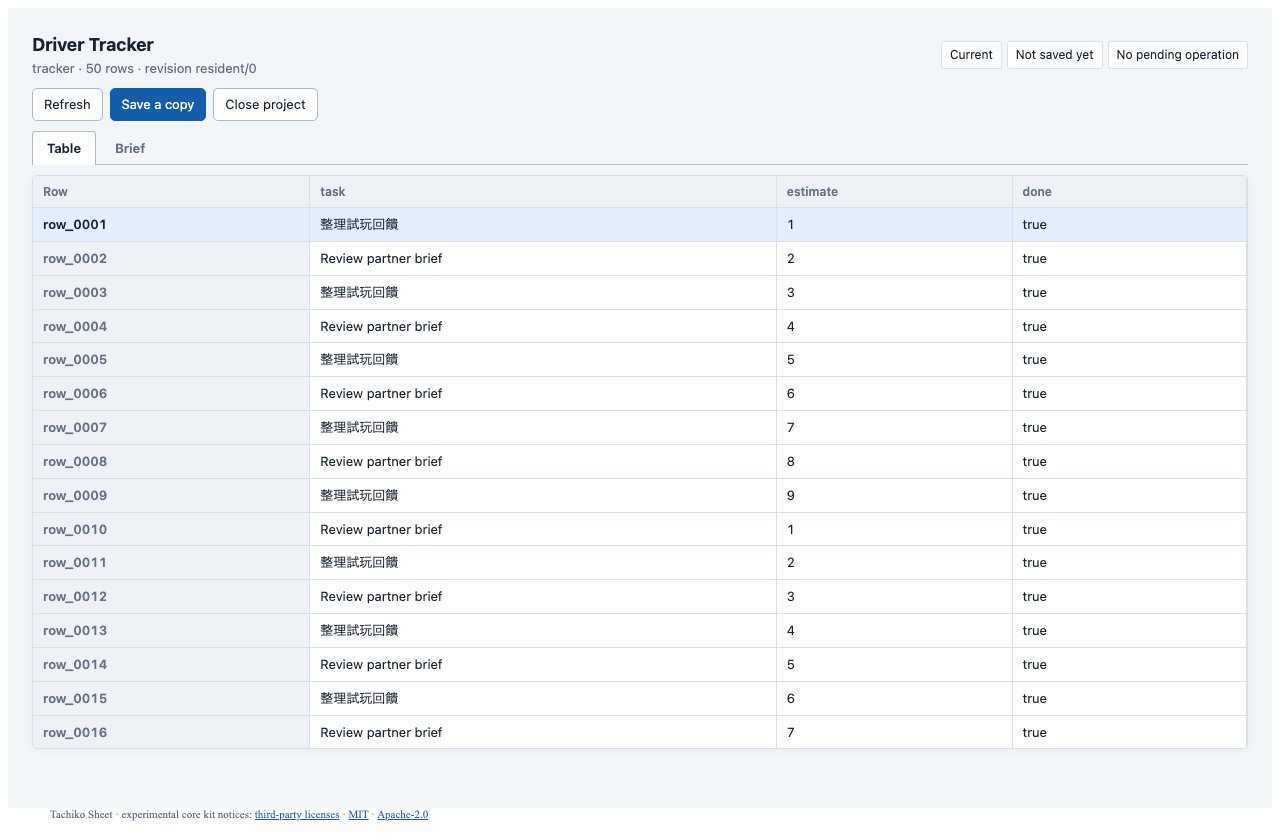
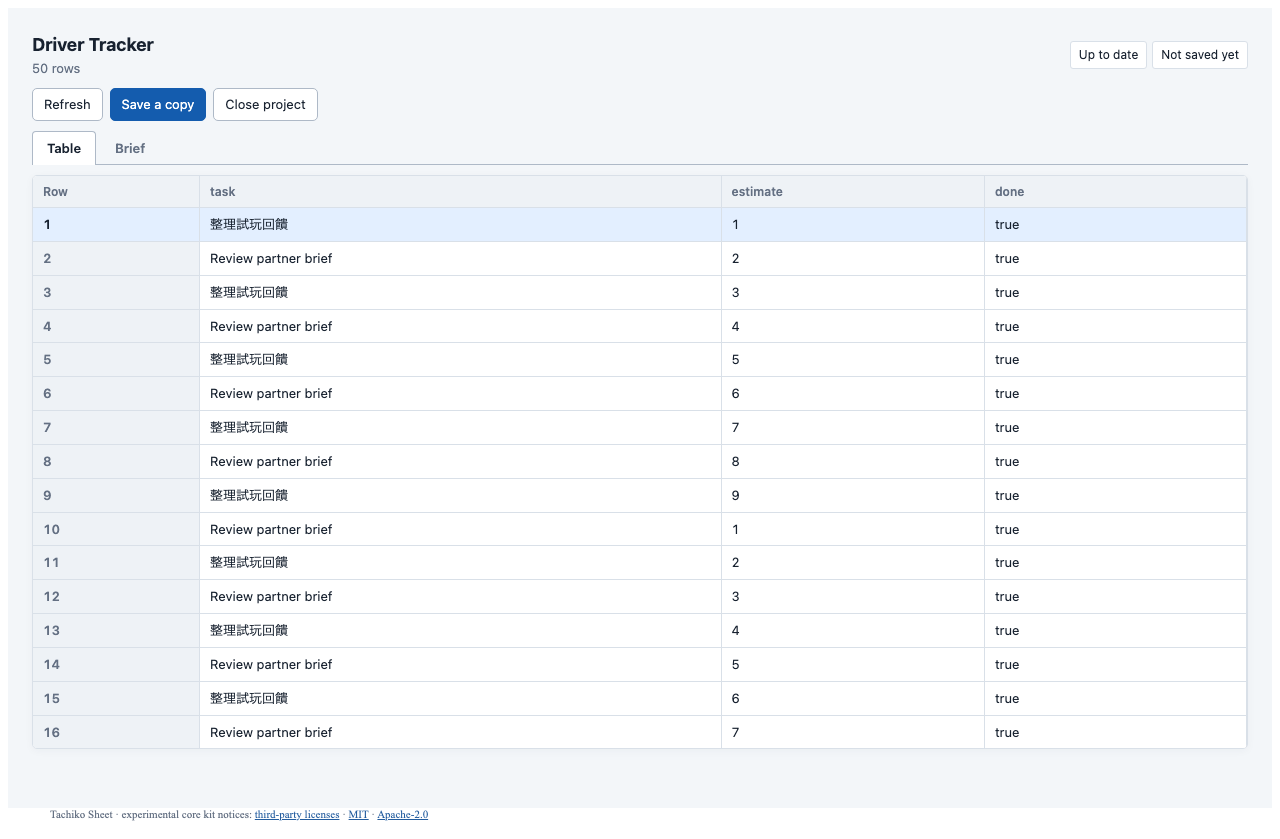
fix: keep runtime identifiers out of sheet presentation

diff --git a/src/ui/SheetShell.tsx b/src/ui/SheetShell.tsx
@@ -472,8 +472,8 @@ export function SheetShell(props: SheetShellProps) {
       <main className="ts-home">
         {currentness === "unknown" ? (
           <section className="ts-card" aria-label="Recovery">
-            <h2 className="ts-h2">Recovery required; freshness unconfirmed</h2>
-            <p className="ts-subtle">Resident work is not confirmed. Refresh to re-read it.</p>
+            <h2 className="ts-h2">Refresh required</h2>
+            <p className="ts-subtle">The open work could not be confirmed. Refresh to read it again.</p>
             <div className="ts-status-strip" aria-label="Recovery status">
               <span className="ts-chip" data-testid="currentness" data-currentness={currentness}>
                 {currentnessLabel(currentness)}
@@ -568,10 +568,7 @@ export function SheetShell(props: SheetShellProps) {
       <header className="ts-workbook-head">
         <div className="ts-title-block">
           <h1 className="ts-title">{view ? view.title : ""}</h1>
-          <p className="ts-subtle">
-            {table ? `${table.collection.key} · ${table.rows.length} rows` : ""}
-            {view ? ` · revision ${view.revision}` : ""}
-          </p>
+          <p className="ts-subtle">{table ? `${table.rows.length} rows` : ""}</p>
         </div>
         <div className="ts-status-strip">
           <span className="ts-chip" data-testid="currentness" data-currentness={currentness}>
@@ -580,9 +577,11 @@ export function SheetShell(props: SheetShellProps) {
           <span className={`ts-chip ts-chip--${saveStatus}`} data-testid="save-status">
             {saveLabel(saveStatus)}
           </span>
-          <span className={`ts-chip ts-chip--${outcome}`} data-testid="operation-outcome">
-            {outcomeLabel(outcome)}
-          </span>
+          {outcome !== "idle" ? (
+            <span className={`ts-chip ts-chip--${outcome}`} data-testid="operation-outcome">
+              {outcomeLabel(outcome)}
+            </span>
+          ) : null}
         </div>
       </header>
     );
@@ -614,7 +613,7 @@ export function SheetShell(props: SheetShellProps) {
                 return (
                   <tr key={row.id || entity} className={isSelectedRow ? "ts-row ts-row--selected" : "ts-row"}>
                     <th scope="row" className="ts-row-head">
-                      {row.key}
+                      {table.rows.indexOf(row) + 1}
                     </th>
                     {columns.map((column) => renderCell(row, entity, column))}
                   </tr>
@@ -1010,15 +1009,15 @@ function isComposingEvent(event: ReactKeyboardEvent<HTMLElement>): boolean {
 }
 
 function currentnessLabel(currentness: SheetShellProps["currentness"]): string {
-  if (currentness === "current") return "Current";
+  if (currentness === "current") return "Up to date";
   if (currentness === "pending") return "Updating…";
-  return "Freshness unknown";
+  return "Needs refresh";
 }
 
 function freshnessNotice(currentness: SheetShellProps["currentness"]): string {
   return currentness === "pending"
-    ? "These values are not confirmed current: a change is still being applied."
-    : "These values are not confirmed current, and shown results may be out of date.";
+    ? "These values are being updated; wait for confirmation before editing."
+    : "These values could not be confirmed. Refresh before editing.";
 }
 
 function saveLabel(saveStatus: SheetShellProps["saveStatus"]): string {
@@ -1036,8 +1035,8 @@ function saveLabel(saveStatus: SheetShellProps["saveStatus"]): string {
 
 function outcomeLabel(outcome: SheetShellProps["outcome"]): string {
   if (outcome === "pending") return "Applying changes…";
-  if (outcome === "unknown") return "Outcome unknown";
-  return "No pending operation";
+  if (outcome === "unknown") return "Outcome needs review";
+  return "";
 }
 
 function explain(error: unknown, fallback: string): string {

diff --git a/src/ui/SheetShell.test.ts b/src/ui/SheetShell.test.ts
@@ -202,9 +202,9 @@ describe("recovery presentation", () => {
   it("keeps Refresh available when a replacement opened without a confirmed projection", () => {
     const markup = render({ currentness: "unknown", outcome: "unknown" });
     expect(markup).toContain('aria-label="Recovery"');
-    expect(markup).toContain("Recovery required; freshness unconfirmed");
-    expect(chipText(markup, "currentness")).toBe("Freshness unknown");
-    expect(chipText(markup, "operation-outcome")).toBe("Outcome unknown");
+    expect(markup).toContain("Refresh required");
+    expect(chipText(markup, "currentness")).toBe("Needs refresh");
+    expect(chipText(markup, "operation-outcome")).toBe("Outcome needs review");
     expect(markup).toMatch(/<button[^>]*class="ts-button"[^>]*>Refresh<\/button>/);
     expect(markup).not.toMatch(/<button[^>]*disabled=""[^>]*>Refresh<\/button>/);
     expect(markup).not.toContain("could not be opened");
@@ -323,13 +323,24 @@ describe("SheetShell static rendering", () => {
   });
 
   it("marks unknown outcomes and freshness instead of presenting values as current", () => {
-    expect(chipText(render({ view: makeView() }), "operation-outcome")).toBe("No pending operation");
+    expect(chipText(render({ view: makeView() }), "operation-outcome")).toBe(null);
     const markup = render({ view: makeView(), outcome: "unknown", currentness: "unknown" });
-    expect(chipText(markup, "operation-outcome")).toBe("Outcome unknown");
-    expect(chipText(markup, "currentness")).toBe("Freshness unknown");
+    expect(chipText(markup, "operation-outcome")).toBe("Outcome needs review");
+    expect(chipText(markup, "currentness")).toBe("Needs refresh");
     expect(cellMarkup(markup, `cell:${entityA}:c-impact`)).toContain('data-work-currentness="unknown"');
-    expect(markup).toContain("These values are not confirmed current");
+    expect(markup).toContain("These values could not be confirmed");
     expect(markup).not.toContain("Saved on this device");
+  });
+
+  it("keeps internal revision, collection, and row identities out of normal chrome", () => {
+    const markup = render({ view: makeView() });
+    expect(markup).toContain("2 rows");
+    expect(markup).toContain(">1</th>");
+    expect(markup).not.toContain("release_items ·");
+    expect(markup).not.toContain("revision rev-1");
+    // Entity/revision values remain in data-* witnesses for acceptance and
+    // recovery tooling; only visible chrome must stay free of them.
+    expect(markup).toContain('data-work-entity="entity-a"');
   });
 
   it("surfaces a single alert only when there is a message", () => {
